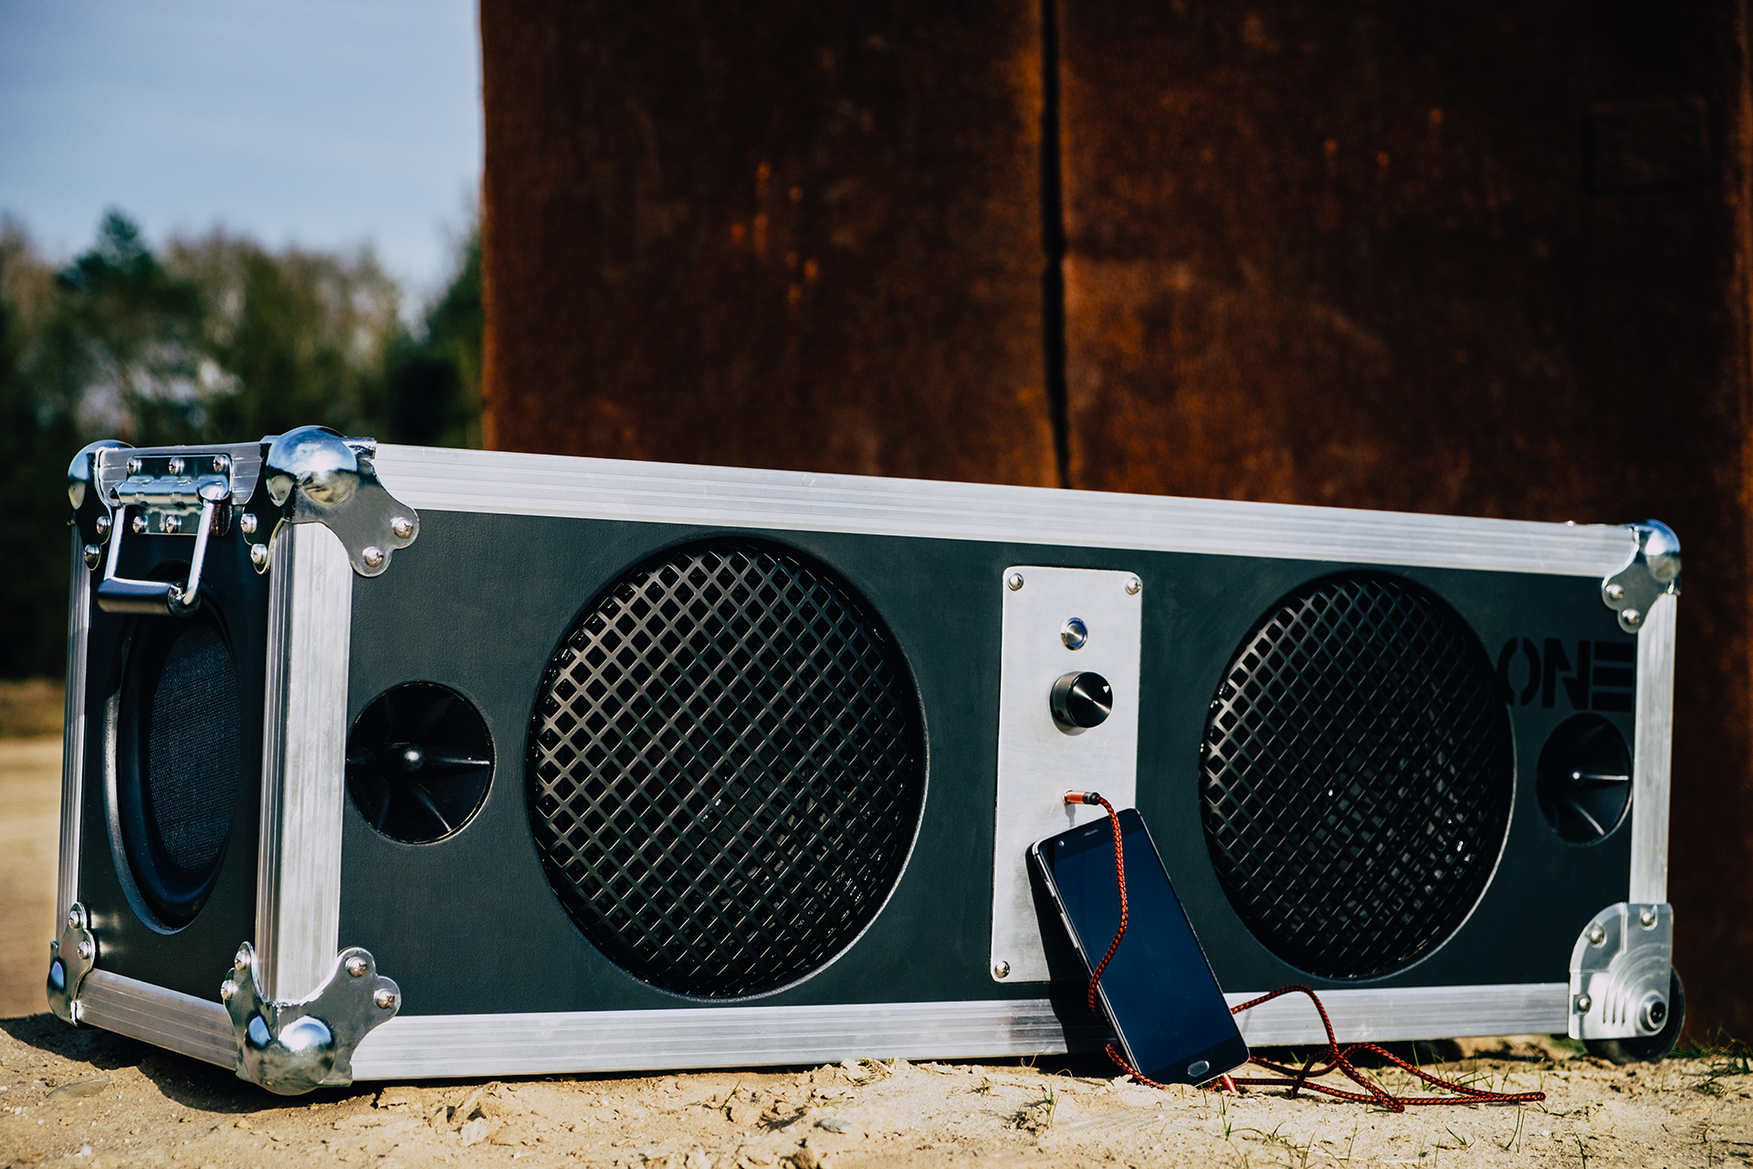
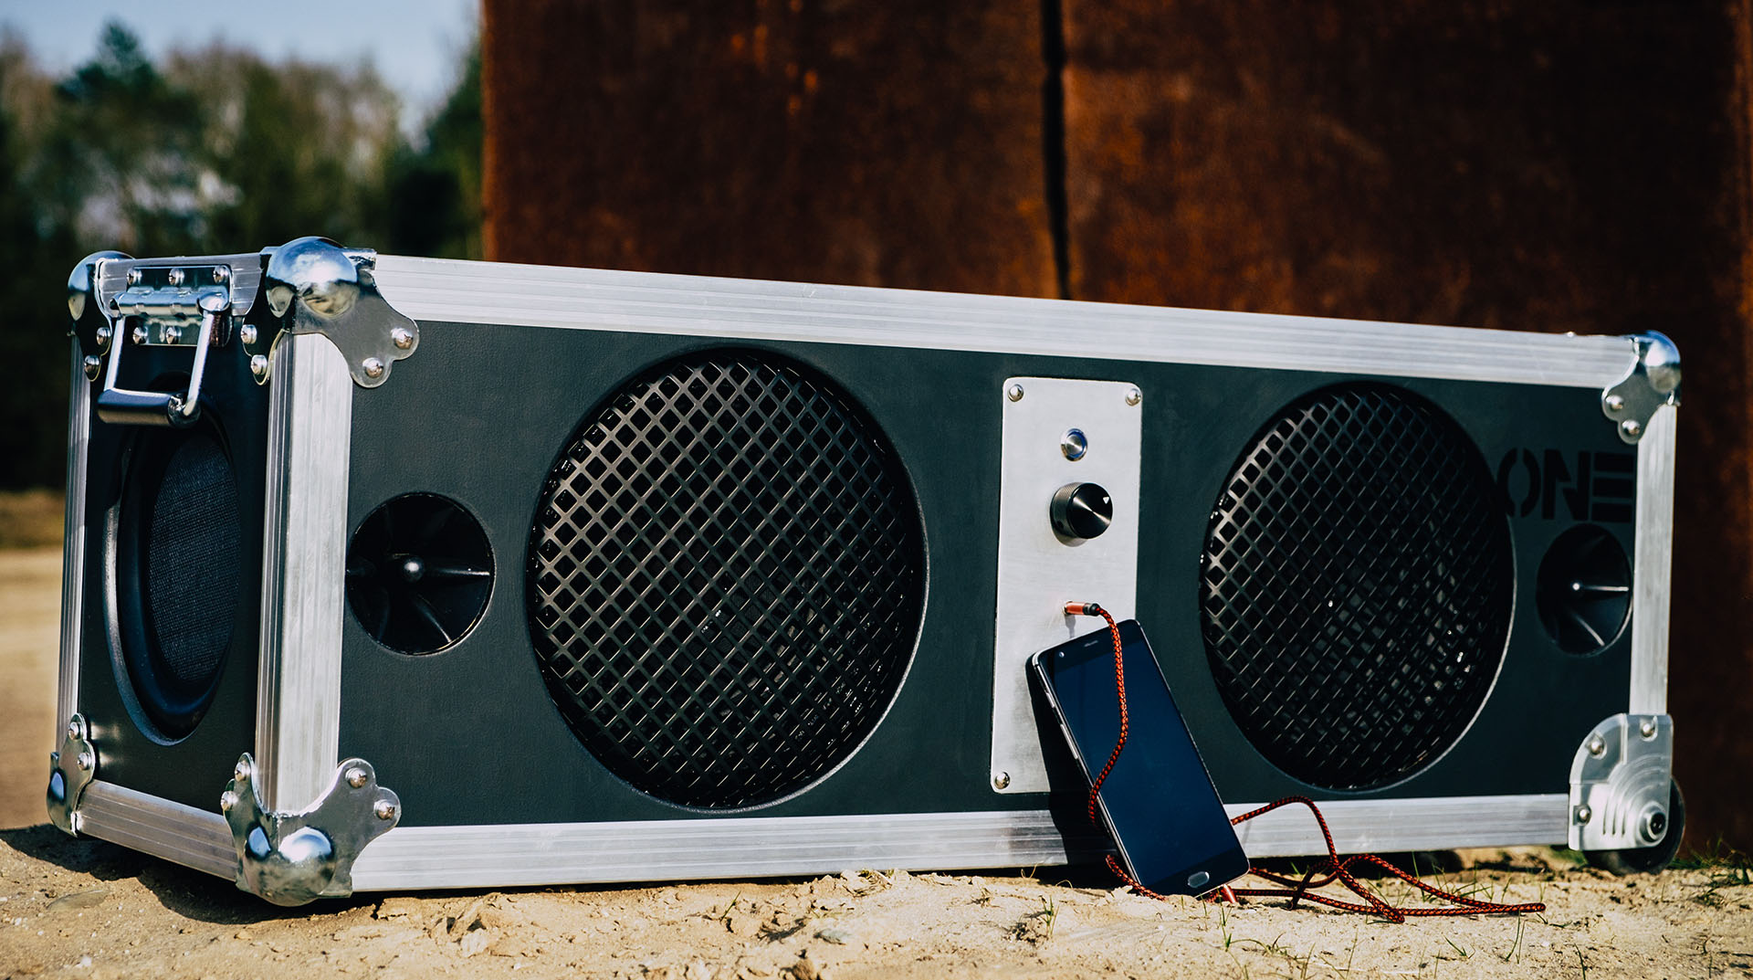
Header changes

diff --git a/src/css/styles.css b/src/css/styles.css
@@ -1,1 +1,1 @@
-body{overflow-x:hidden;font-family:'Roboto Slab', 'Helvetica Neue', Helvetica, Arial, sans-serif}.bg-primary{background-size:100% 100%;background-position:center;background-color:#1a3171 !important}p{line-height:1.65}a{color:#1a3171}a:hover{color:#101f48}.text-primary{color:#1a3171 !important}h1,h2,h3,h4,h5,h6{font-weight:700;font-family:'Montserrat', 'Helvetica Neue', Helvetica, Arial, sans-serif}section{padding:50px 0}section h2.section-heading{font-size:40px;margin-top:0;margin-bottom:15px}section h3.section-subheading{font-size:16px;font-weight:400;font-style:italic;margin-bottom:75px;text-transform:none;font-family:'Droid Serif', 'Helvetica Neue', Helvetica, Arial, sans-serif}@media (min-width: 768px){section{padding:80px 0}}.btn{font-family:'Montserrat', 'Helvetica Neue', Helvetica, Arial, sans-serif;font-weight:700}.btn-xl{font-size:18px;padding:20px 40px}.btn-primary{background-color:#070d1e;border-color:#070d1e}.btn-primary:active,.btn-primary:focus,.btn-primary:hover{background-color:#101f48 !important;border-color:#101f48 !important;color:white}.btn-primary:active,.btn-primary:focus{box-shadow:0 0 0 0.2rem rgba(25,232,254,0.5) !important}::-moz-selection{background:#1a3171;text-shadow:none}::selection{background:#1a3171;text-shadow:none}img::selection{background:transparent}img::-moz-selection{background:transparent}.carousel-item{height:100vh;min-height:300px;background:no-repeat center center scroll;-webkit-background-size:cover;-moz-background-size:cover;-o-background-size:cover;background-size:cover}.carousel-item .carousel-caption{position:center;text-align:center;top:30%;height:280px;background-color:rgba(36,89,148,0.35);border-radius:2px}.carousel-item .clip-text{padding-top:40px;font-size:7em;font-weight:bold;line-height:1;text-align:center}.carousel-item p{font-size:1.9em;font-weight:bold}.carousel-item:before{content:'';position:absolute;top:0;right:0;bottom:0;left:0}@media (min-width: 992px){.carousel-item:before{background:-moz-linear-gradient(top, #1e5799 0%, rgba(30,87,153,0.93) 3%, rgba(32,124,202,0.62) 16%, rgba(32,124,202,0) 42%);background:-webkit-linear-gradient(top, #1e5799 0%, rgba(30,87,153,0.93) 3%, rgba(32,124,202,0.62) 16%, rgba(32,124,202,0) 42%);background:linear-gradient(to bottom, #1e5799 0%, rgba(30,87,153,0.93) 3%, rgba(32,124,202,0.62) 16%, rgba(32,124,202,0) 42%);filter:progid:DXImageTransform.Microsoft.gradient(startColorstr='#1e5799', endColorstr='#00207cca', GradientType=0)}}@media (max-width: 1400px){.carousel-item .carousel-caption{height:220px;top:35%}.carousel-item .clip-text{font-size:5em;padding-top:20px}.carousel-item p{font-size:1.7em}}@media (max-width: 1024px){.carousel-item .carousel-caption{height:155px;top:40%}.carousel-item .clip-text{font-size:3em;padding-top:10px}.carousel-item p{font-size:1.4em}}@media (max-width: 767px){.carousel-item{height:70vh;margin-top:55px}}#mainNav{background-color:#212529}#mainNav img{background-color:rgba(255,255,255,0.85);padding:6px;height:40px;border-radius:7px;margin-right:6px}#mainNav .navbar-toggler{font-size:12px;right:0;padding:13px;text-transform:uppercase;color:white;border:0;background-color:white;font-family:'Montserrat', 'Helvetica Neue', Helvetica, Arial, sans-serif}#mainNav .navbar-brand{color:white;font-family:'Kaushan Script', 'Helvetica Neue', Helvetica, Arial, cursive}#mainNav .navbar-brand:hover{color:#74a2c5}#mainNav .navbar-brand:hover img{background-color:rgba(255,255,255,0.65)}#mainNav .navbar-nav .nav-item .nav-link{font-size:90%;font-weight:400;padding:0.75em 0;letter-spacing:1px;color:white;font-family:'Montserrat', 'Helvetica Neue', Helvetica, Arial, sans-serif}#mainNav .navbar-nav .nav-item .nav-link.active,#mainNav .navbar-nav .nav-item .nav-link:hover{color:#74a2c5}@media (min-width: 992px){#mainNav{padding-top:15px;padding-bottom:25px;-webkit-transition:padding-top 0.3s, padding-bottom 0.3s;-moz-transition:padding-top 0.3s, padding-bottom 0.3s;transition:padding-top 0.3s, padding-bottom 0.3s;border:none;background-color:transparent}#mainNav img{height:60px}#mainNav .navbar-brand{font-size:1.75em;-webkit-transition:all 0.3s;-moz-transition:all 0.3s;transition:all 0.3s}#mainNav .navbar-brand:hover{color:#000}#mainNav .navbar-brand:hover img{background-color:rgba(215,215,215,0.85)}#mainNav .navbar-nav .nav-item .nav-link{padding:1.1em 1em !important}#mainNav .navbar-nav .nav-item .nav-link.active,#mainNav .navbar-nav .nav-item .nav-link:hover{color:#000}#mainNav.navbar-shrink{padding-top:0;padding-bottom:0;background-color:#212529}#mainNav.navbar-shrink img{height:40px}#mainNav.navbar-shrink .navbar-nav .nav-item .nav-link.active,#mainNav.navbar-shrink .navbar-nav .nav-item .nav-link:hover{color:#74a2c5}#mainNav.navbar-shrink .navbar-brand{font-size:1.25em;padding:12px 0;color:white;font-family:'Kaushan Script', 'Helvetica Neue', Helvetica, Arial, cursive}#mainNav.navbar-shrink .navbar-brand:hover{color:#74a2c5}#mainNav.navbar-shrink .navbar-brand:hover img{background-color:rgba(255,255,255,0.65)}}#projects{padding:0;background-size:100% 100%}#projects p{padding-top:20px}#projects hr{border-top:10px solid #ffffff}#projects .project-text{position:relative;display:flex;justify-content:center;align-items:center;color:#FFF}#projects .project-image{background-size:cover;background-position:center;display:flex;justify-content:center;align-items:center;height:450px;padding-right:5%}@media (max-width: 991px){#projects .project-text{padding:40px 20px}#projects .project-image{height:400px}}@media (min-width: 992px){#projects{background-size:50% 50%}#projects .project-even-txt{right:-4%}#projects .project-uneven-txt{left:-4%}#projects .project-uneven-img{background-position:-3vw;-webkit-clip-path:polygon(0 0, 0 100%, 97% 100%, 97% 55%, 100% 50%, 97% 45%, 97% 0);clip-path:polygon(0 0, 0 100%, 85.71% 100%, 85.71% 35%, 90% 30%, 85.71% 25%, 85.71% 0)}#projects .project-even-img{background-position:3vw;-webkit-clip-path:polygon(2% 0, 2% 43%, 0 48%, 2% 58%, 2% 100%, 100% 100%, 100% 0);clip-path:polygon(14.29% 0, 14.29% 25%, 10% 30%, 14.29% 35%, 14.29% 100%, 100% 100%, 100% 0)}}@media (max-width: 768px){#projects .project-image{height:300px}}.about-timeline{position:relative;padding:0;list-style:none}.about-timeline:before{position:absolute;top:0;bottom:0;left:40px;width:2px;margin-left:-1.5px;content:'';background-color:#1a3171}.about-timeline>li{position:relative;min-height:50px;margin-bottom:50px}.about-timeline>li:after,.about-timeline>li:before{display:table;content:' '}.about-timeline>li:after{clear:both}.about-timeline>li .about-panel{position:relative;float:right;width:100%;padding:0 0px 0 100px;text-align:left}.about-timeline>li .about-panel:before{right:auto;left:-15px;border-right-width:15px;border-left-width:0}.about-timeline>li .about-panel:after{right:auto;left:-14px;border-right-width:14px;border-left-width:0}.about-timeline>li .about-image{position:absolute;z-index:100;left:0;width:80px;height:80px;margin-left:0;text-align:center;color:white;border:7px solid #1a3171;border-radius:100%;background-color:#1a3171}.about-timeline>li .about-image .img-fluid{height:100%;width:100%;object-fit:cover}.about-timeline>li .about-image h4{font-size:10px;line-height:14px;margin-top:12px}.about-timeline>li.about-inverted>.about-panel{float:right;padding:0 20px 0 100px;text-align:left}.about-timeline>li.about-inverted>.about-panel:before{right:auto;left:-15px;border-right-width:15px;border-left-width:0}.about-timeline>li.about-inverted>.about-panel:after{right:auto;left:-14px;border-right-width:14px;border-left-width:0}.about-timeline>li:last-child{margin-bottom:0}.about-timeline .about-title h4{margin-top:0;color:inherit}.about-timeline .about-title h4.subheading{text-transform:none}.about-timeline .about-text>ul,.about-timeline .about-text>p{margin-bottom:0;line-height:1.40;font-size:11.5pt}@media (min-width: 768px){.about-timeline:before{left:50%}.about-timeline>li{min-height:100px;margin-bottom:100px}.about-timeline>li .about-panel{float:left;width:41%;padding:0 10px 0px 0px;text-align:right}.about-timeline>li .about-image{left:50%;width:100px;height:100px;margin-left:-50px}.about-timeline>li .about-image h4{font-size:13px;line-height:18px;margin-top:16px}.about-timeline>li.about-inverted>.about-panel{float:right;padding:0 0px 20px 10px;text-align:left}}@media (min-width: 992px){.about-timeline>li{min-height:150px}.about-timeline>li .about-panel{padding:0 20px 0px 0px}.about-timeline>li .about-image{width:150px;height:150px;margin-left:-75px}.about-timeline>li .about-image h4{font-size:18px;line-height:26px;margin-top:30px}.about-timeline>li.about-inverted>.about-panel{padding:0 20px 0px}}@media (min-width: 1200px){.about-timeline>li{min-height:170px}.about-timeline>li .about-panel{padding:0 20px 0px 0px}.about-timeline>li .about-image{width:170px;height:170px;margin-left:-85px}.about-timeline>li .about-image h4{margin-top:40px}.about-timeline>li.about-inverted>.about-panel{padding:0 0px 20px 0px}}#return-to-top{position:fixed;bottom:30px;right:30px;background:#000;background:rgba(0,0,0,0.7);width:50px;height:50px;display:block;text-decoration:none;-webkit-border-radius:35px;-moz-border-radius:35px;border-radius:35px;display:none}#return-to-top i{color:#fff;margin:0;position:relative;left:16px;top:13px;font-size:19px;-webkit-transition:all 0.3s ease;-moz-transition:all 0.3s ease;-ms-transition:all 0.3s ease;-o-transition:all 0.3s ease;transition:all 0.3s ease}@media (hover: hover){#return-to-top:hover{background:rgba(0,0,0,0.9)}#return-to-top:hover i{color:#fff;top:5px}}#prices{padding-bottom:20px}#prices .card{height:92%;margin-bottom:50px}#prices .btn{width:70%;margin-left:15%;margin-bottom:20px}.team-member{margin-bottom:50px;text-align:center}.team-member img{width:225px;height:225px;object-fit:cover;object-position:center;border:7px solid #fff}.team-member h4{margin-top:25px;margin-bottom:0;text-transform:none}.team-member p{margin-top:0}#contact .form-control{border-radius:2px !important}#contact .btn{margin-left:30%;width:40%}#contact .contact-info{text-align:center}#contact .contact-info h4{margin-top:20px}#contact .contact-info hr{border-color:#fff}#contact .contact-info .contact-adress{font-weight:bold;font-size:1.1em}#contact .contact-info i{color:#fff;font-size:54px}@media (min-width: 992px){#contact .contact-info{text-align:left;padding-left:30px}#contact .contact-info h4{margin-top:-5px}}footer{text-align:center;padding:25px 0;background-color:#212529}footer img{width:60px}
+body{overflow-x:hidden;font-family:'Roboto Slab', 'Helvetica Neue', Helvetica, Arial, sans-serif}.bg-primary{background-size:100% 100%;background-position:center;background-color:#1a3171 !important}p{line-height:1.65}a{color:#1a3171}a:hover{color:#101f48}.text-primary{color:#1a3171 !important}h1,h2,h3,h4,h5,h6{font-weight:700;font-family:'Montserrat', 'Helvetica Neue', Helvetica, Arial, sans-serif}section{padding:50px 0}section h2.section-heading{font-size:40px;margin-top:0;margin-bottom:15px}section h3.section-subheading{font-size:16px;font-weight:400;font-style:italic;margin-bottom:75px;text-transform:none;font-family:'Droid Serif', 'Helvetica Neue', Helvetica, Arial, sans-serif}@media (min-width: 768px){section{padding:80px 0}}.btn{font-family:'Montserrat', 'Helvetica Neue', Helvetica, Arial, sans-serif;font-weight:700}.btn-xl{font-size:18px;padding:20px 40px}.btn-primary{background-color:#070d1e;border-color:#070d1e}.btn-primary:active,.btn-primary:focus,.btn-primary:hover{background-color:#101f48 !important;border-color:#101f48 !important;color:white}.btn-primary:active,.btn-primary:focus{box-shadow:0 0 0 0.2rem rgba(25,232,254,0.5) !important}::-moz-selection{background:#1a3171;text-shadow:none}::selection{background:#1a3171;text-shadow:none}img::selection{background:transparent}img::-moz-selection{background:transparent}.carousel-item{height:100vh;min-height:300px;background:no-repeat center center scroll;-webkit-background-size:cover;-moz-background-size:cover;-o-background-size:cover;background-size:cover;background-position:center}.carousel-item .carousel-caption{position:center;text-align:center;top:30%;height:280px;background-color:rgba(36,89,148,0.35);border-radius:2px}.carousel-item .clip-text{padding-top:40px;font-size:7em;font-weight:bold;line-height:1;text-align:center}.carousel-item p{font-size:1.9em;font-weight:bold}.carousel-item:before{content:'';position:absolute;top:0;right:0;bottom:0;left:0}@media (min-width: 992px){.carousel-item:before{background:-moz-linear-gradient(top, #1e5799 0%, rgba(30,87,153,0.93) 3%, rgba(32,124,202,0.62) 16%, rgba(32,124,202,0) 42%);background:-webkit-linear-gradient(top, #1e5799 0%, rgba(30,87,153,0.93) 3%, rgba(32,124,202,0.62) 16%, rgba(32,124,202,0) 42%);background:linear-gradient(to bottom, #1e5799 0%, rgba(30,87,153,0.93) 3%, rgba(32,124,202,0.62) 16%, rgba(32,124,202,0) 42%);filter:progid:DXImageTransform.Microsoft.gradient(startColorstr='#1e5799', endColorstr='#00207cca', GradientType=0)}}@media (max-width: 1400px){.carousel-item .carousel-caption{height:220px;top:35%}.carousel-item .clip-text{font-size:5em;padding-top:20px}.carousel-item p{font-size:1.7em}}@media (max-width: 1024px){.carousel-item .carousel-caption{height:155px;top:40%}.carousel-item .clip-text{font-size:3em;padding-top:10px}.carousel-item p{font-size:1.4em}}@media (max-width: 767px){.carousel-item{height:70vh;margin-top:55px}}#mainNav{background-color:#212529}#mainNav img{background-color:rgba(255,255,255,0.85);padding:6px;height:40px;border-radius:7px;margin-right:6px}#mainNav .navbar-toggler{font-size:12px;right:0;padding:13px;text-transform:uppercase;color:white;border:0;background-color:white;font-family:'Montserrat', 'Helvetica Neue', Helvetica, Arial, sans-serif}#mainNav .navbar-brand{color:white;font-family:'Kaushan Script', 'Helvetica Neue', Helvetica, Arial, cursive}#mainNav .navbar-brand:hover{color:#74a2c5}#mainNav .navbar-brand:hover img{background-color:rgba(255,255,255,0.65)}#mainNav .navbar-nav .nav-item .nav-link{font-size:90%;font-weight:400;padding:0.75em 0;letter-spacing:1px;color:white;font-family:'Montserrat', 'Helvetica Neue', Helvetica, Arial, sans-serif}#mainNav .navbar-nav .nav-item .nav-link.active,#mainNav .navbar-nav .nav-item .nav-link:hover{color:#74a2c5}@media (min-width: 992px){#mainNav{padding-top:15px;padding-bottom:25px;-webkit-transition:padding-top 0.3s, padding-bottom 0.3s;-moz-transition:padding-top 0.3s, padding-bottom 0.3s;transition:padding-top 0.3s, padding-bottom 0.3s;border:none;background-color:transparent}#mainNav img{height:60px}#mainNav .navbar-brand{font-size:1.75em;-webkit-transition:all 0.3s;-moz-transition:all 0.3s;transition:all 0.3s}#mainNav .navbar-brand:hover{color:#000}#mainNav .navbar-brand:hover img{background-color:rgba(215,215,215,0.85)}#mainNav .navbar-nav .nav-item .nav-link{padding:1.1em 1em !important}#mainNav .navbar-nav .nav-item .nav-link.active,#mainNav .navbar-nav .nav-item .nav-link:hover{color:#000}#mainNav.navbar-shrink{padding-top:0;padding-bottom:0;background-color:#212529}#mainNav.navbar-shrink img{height:40px}#mainNav.navbar-shrink .navbar-nav .nav-item .nav-link.active,#mainNav.navbar-shrink .navbar-nav .nav-item .nav-link:hover{color:#74a2c5}#mainNav.navbar-shrink .navbar-brand{font-size:1.25em;padding:12px 0;color:white;font-family:'Kaushan Script', 'Helvetica Neue', Helvetica, Arial, cursive}#mainNav.navbar-shrink .navbar-brand:hover{color:#74a2c5}#mainNav.navbar-shrink .navbar-brand:hover img{background-color:rgba(255,255,255,0.65)}}#projects{padding:0;background-size:100% 100%}#projects p{padding-top:20px}#projects hr{border-top:10px solid #ffffff}#projects .project-text{position:relative;display:flex;justify-content:center;align-items:center;color:#FFF}#projects .project-image{background-size:cover;background-position:center;display:flex;justify-content:center;align-items:center;height:450px;padding-right:5%}@media (max-width: 991px){#projects .project-text{padding:40px 20px}#projects .project-image{height:400px}}@media (min-width: 992px){#projects{background-size:50% 50%}#projects .project-even-txt{right:-4%}#projects .project-uneven-txt{left:-4%}#projects .project-uneven-img{background-position:-3vw;-webkit-clip-path:polygon(0 0, 0 100%, 97% 100%, 97% 55%, 100% 50%, 97% 45%, 97% 0);clip-path:polygon(0 0, 0 100%, 85.71% 100%, 85.71% 35%, 90% 30%, 85.71% 25%, 85.71% 0)}#projects .project-even-img{background-position:3vw;-webkit-clip-path:polygon(2% 0, 2% 43%, 0 48%, 2% 58%, 2% 100%, 100% 100%, 100% 0);clip-path:polygon(14.29% 0, 14.29% 25%, 10% 30%, 14.29% 35%, 14.29% 100%, 100% 100%, 100% 0)}}@media (max-width: 768px){#projects .project-image{height:300px}}.about-timeline{position:relative;padding:0;list-style:none}.about-timeline:before{position:absolute;top:0;bottom:0;left:40px;width:2px;margin-left:-1.5px;content:'';background-color:#1a3171}.about-timeline>li{position:relative;min-height:50px;margin-bottom:50px}.about-timeline>li:after,.about-timeline>li:before{display:table;content:' '}.about-timeline>li:after{clear:both}.about-timeline>li .about-panel{position:relative;float:right;width:100%;padding:0 0px 0 100px;text-align:left}.about-timeline>li .about-panel:before{right:auto;left:-15px;border-right-width:15px;border-left-width:0}.about-timeline>li .about-panel:after{right:auto;left:-14px;border-right-width:14px;border-left-width:0}.about-timeline>li .about-image{position:absolute;z-index:100;left:0;width:80px;height:80px;margin-left:0;text-align:center;color:white;border:7px solid #1a3171;border-radius:100%;background-color:#1a3171}.about-timeline>li .about-image .img-fluid{height:100%;width:100%;object-fit:cover}.about-timeline>li .about-image h4{font-size:10px;line-height:14px;margin-top:12px}.about-timeline>li.about-inverted>.about-panel{float:right;padding:0 20px 0 100px;text-align:left}.about-timeline>li.about-inverted>.about-panel:before{right:auto;left:-15px;border-right-width:15px;border-left-width:0}.about-timeline>li.about-inverted>.about-panel:after{right:auto;left:-14px;border-right-width:14px;border-left-width:0}.about-timeline>li:last-child{margin-bottom:0}.about-timeline .about-title h4{margin-top:0;color:inherit}.about-timeline .about-title h4.subheading{text-transform:none}.about-timeline .about-text>ul,.about-timeline .about-text>p{margin-bottom:0;line-height:1.40;font-size:11.5pt}@media (min-width: 768px){.about-timeline:before{left:50%}.about-timeline>li{min-height:100px;margin-bottom:100px}.about-timeline>li .about-panel{float:left;width:41%;padding:0 10px 0px 0px;text-align:right}.about-timeline>li .about-image{left:50%;width:100px;height:100px;margin-left:-50px}.about-timeline>li .about-image h4{font-size:13px;line-height:18px;margin-top:16px}.about-timeline>li.about-inverted>.about-panel{float:right;padding:0 0px 20px 10px;text-align:left}}@media (min-width: 992px){.about-timeline>li{min-height:150px}.about-timeline>li .about-panel{padding:0 20px 0px 0px}.about-timeline>li .about-image{width:150px;height:150px;margin-left:-75px}.about-timeline>li .about-image h4{font-size:18px;line-height:26px;margin-top:30px}.about-timeline>li.about-inverted>.about-panel{padding:0 20px 0px}}@media (min-width: 1200px){.about-timeline>li{min-height:170px}.about-timeline>li .about-panel{padding:0 20px 0px 0px}.about-timeline>li .about-image{width:170px;height:170px;margin-left:-85px}.about-timeline>li .about-image h4{margin-top:40px}.about-timeline>li.about-inverted>.about-panel{padding:0 0px 20px 0px}}#return-to-top{position:fixed;bottom:30px;right:30px;background:#000;background:rgba(0,0,0,0.7);width:50px;height:50px;display:block;text-decoration:none;-webkit-border-radius:35px;-moz-border-radius:35px;border-radius:35px;display:none}#return-to-top i{color:#fff;margin:0;position:relative;left:16px;top:13px;font-size:19px;-webkit-transition:all 0.3s ease;-moz-transition:all 0.3s ease;-ms-transition:all 0.3s ease;-o-transition:all 0.3s ease;transition:all 0.3s ease}@media (hover: hover){#return-to-top:hover{background:rgba(0,0,0,0.9)}#return-to-top:hover i{color:#fff;top:5px}}#prices{padding-bottom:20px}#prices .card{height:92%;margin-bottom:50px}#prices .btn{width:70%;margin-left:15%;margin-bottom:20px}.team-member{margin-bottom:50px;text-align:center}.team-member img{width:225px;height:225px;object-fit:cover;object-position:center;border:7px solid #fff}.team-member h4{margin-top:25px;margin-bottom:0;text-transform:none}.team-member p{margin-top:0}#contact .form-control{border-radius:2px !important}#contact .btn{margin-left:30%;width:40%}#contact .contact-info{text-align:center}#contact .contact-info h4{margin-top:20px}#contact .contact-info hr{border-color:#fff}#contact .contact-info .contact-adress{font-weight:bold;font-size:1.1em}#contact .contact-info i{color:#fff;font-size:54px}@media (min-width: 992px){#contact .contact-info{text-align:left;padding-left:30px}#contact .contact-info h4{margin-top:-5px}}footer{text-align:center;padding:25px 0;background-color:#212529}footer img{width:60px}

diff --git a/index.html b/index.html
@@ -59,24 +59,15 @@
         <div class="carousel-inner">
             <!-- Slide One - Set the background image for this slide in the line below -->
             <div class="carousel-item active" style="background-image: url('src/assets/Boomsystems_DUO_1.jpg')">
-                <div class="carousel-caption d-none d-md-block">
-                    <h1 class="clip-text">BOOMSYSTEMS</h1>
-                    <p>Your all-round sound system</p>
-                </div>
+
             </div>
             <!-- Slide Two - Set the background image for this slide in the line below -->
             <div class="carousel-item" style="background-image: url('src/assets/Boomsystem_ONE_1.jpg')">
-                <div class="carousel-caption d-none d-md-block">
-                    <div class="clip-text">BOOMSYSTEMS</div>
-                    <p>This is a description for the second slide.</p>
-                </div>
+
             </div>
             <!-- Slide Three - Set the background image for this slide in the line below -->
-            <div class="carousel-item" style="background-image: url('src/assets/Boomsystem_ONE_1.jpg')">
-                <div class="carousel-caption d-none d-md-block">
-                    <div class="clip-text">BOOMSYSTEMS</div>
-                    <p>This is a description for the third slide.</p>
-                </div>
+            <div class="carousel-item" style="background-image: url('src/assets/Boomsystem_S_1.jpg')">
+                
             </div>
         </div>
         <a class="carousel-control-prev" href="#carouselHeaderIndicators" role="button" data-slide="prev">

diff --git a/src/scss/_head.scss b/src/scss/_head.scss
@@ -5,7 +5,8 @@
   -webkit-background-size: cover;
   -moz-background-size: cover;
   -o-background-size: cover;
-  background-size: cover;
+  background-size:cover;
+  background-position: center ;
 
   .carousel-caption{
     position: center;
